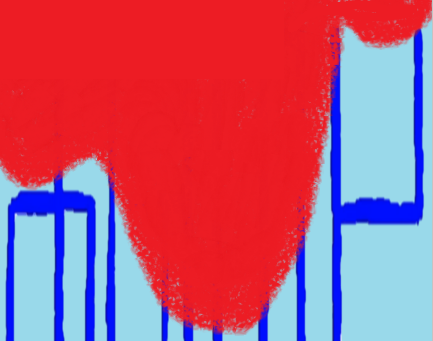
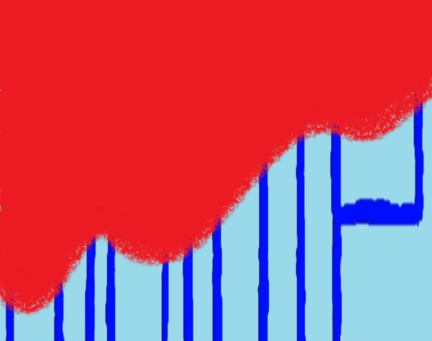
13.10.5 진짜 끝

diff --git a/scary_game.cpp b/scary_game.cpp
@@ -8,7 +8,7 @@ KeyState state;
 SoundID scary_BGM;
 SceneID sc_start, sc_front, sc_back, sc_right, sc_left, sc_up, sc_down, sc_roof, sc_scary, sc_keypan1, sc_keypan2;
 ObjectID sb, rb, eb, start_sc, light_1, light_2, key, kal, glasses, glasses_wire, keypan1, keypan2;
-ObjectID wire_item, wire, blood, hammer, huge, win, look_right, look_left, look_up, look_down;
+ObjectID wire_item, wire, blood, empty_blood, hammer, huge, win, look_right, look_left, look_up, look_down;
 ObjectID gamesc_front, gamesc_right, gamesc_left, gamesc_up, gamesc_down, gamesc_back, gamesc_roof, numpan1, numpan2;
 ObjectID roofin, roofin1, roofin2, roofin3, roofinf, roofout, scary, small_scary, no_scary, empty_scary, num[4];
 ObjectID Object(const char* image, SceneID scene, int x, int y, bool shown) {
@@ -20,7 +20,7 @@ ObjectID Object(const char* image, SceneID scene, int x, int y, bool shown) {
 SoundID playsound(SoundID sound, const char* soundname, const char* soundfile) {
 	sound = createSound(soundfile);
 	showMessage("CAUTION!!!\nBGM IS LOUD");
-	playSound(sound, true);
+	//playSound(sound, true);
 	return sound;
 }
 void goscene(SceneID scene) {
@@ -100,14 +100,16 @@ void keyboardControl(KeyCode code, KeyState sstate) {
 
 
 void mouseControl(ObjectID obj, int x, int y, MouseAction act) {
-	if (getHandObject() == glasses_wire)showObject(wire);
-	else if (getHandObject() != glasses_wire)hideObject(wire);
+	if (getHandObject() == glasses) hideObject(empty_blood);
+	else if (getHandObject() == glasses_wire) showObject(wire);
+	else if (getHandObject() != glasses_wire) hideObject(wire);
 	if (obj == sb) goscene(sc_front);
 	else if (obj == rb) goscene(sc_start);
 	else if (obj == eb)endGame();
 	else if (obj == win)endGame();
 	else if (obj == wire_item) pickObject(wire_item);
 	else if (obj == glasses) pickObject(glasses);
+	else if (obj == glasses_wire) pickObject(glasses_wire);
 	else if (obj == key) pickObject(key);
 	else if (obj == kal) pickObject(kal);
 	else if (obj == hammer) pickObject(hammer);
@@ -168,6 +170,7 @@ int main() {
 		numpan1 = Object("\\images\\numpan1.png", sc_left, 31, 305, true);
 		gamesc_back = Object("\\images\\gamesc_back.png", sc_back, 0, 0, true);
 		blood = Object("\\images\\blood.png", sc_back, 31, 283, true);
+		empty_blood = Object("\\images\\empty_blood.png", sc_back, 0, 0, true);
 		gamesc_up = Object("\\images\\gamesc_up.png", sc_up, 0, 0, true);
 		roofinf = Object("\\images\\roofinf.png", sc_up, 151, 181, true);
 		roofin3 = Object("\\images\\roofin3.png", sc_up, 151, 181, true);
